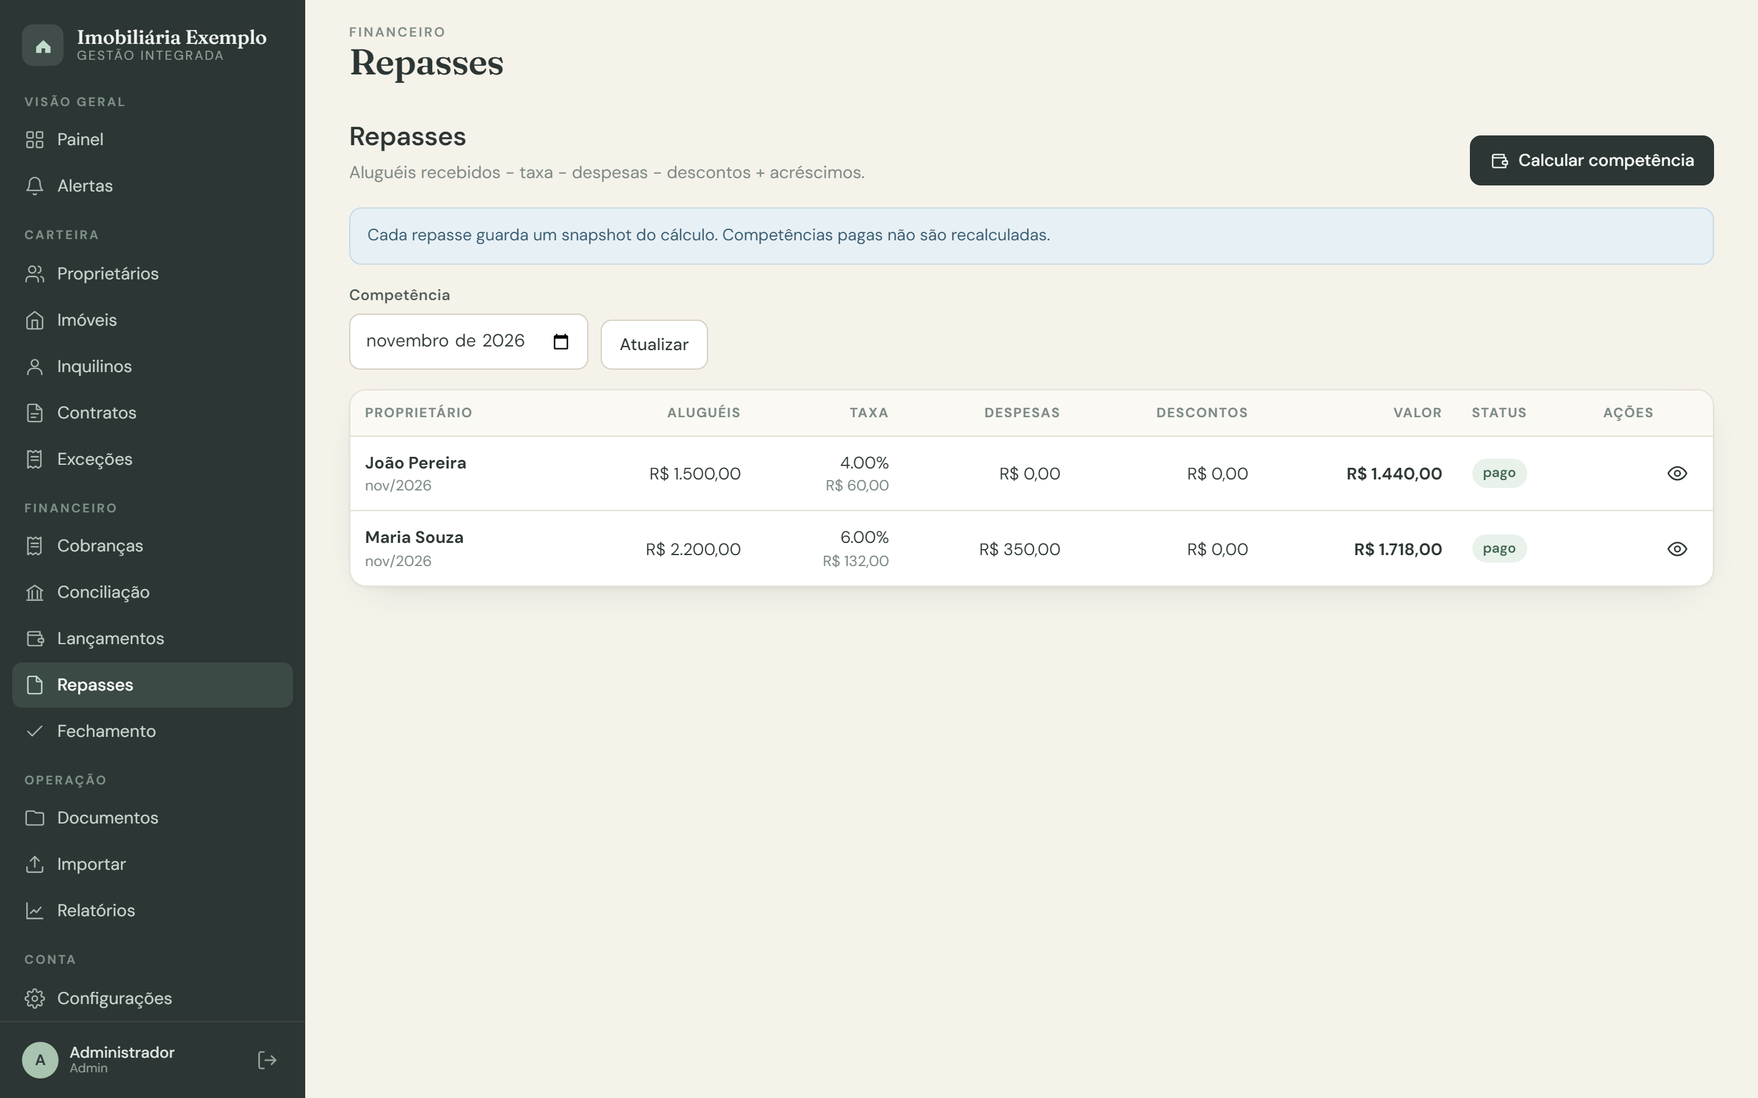
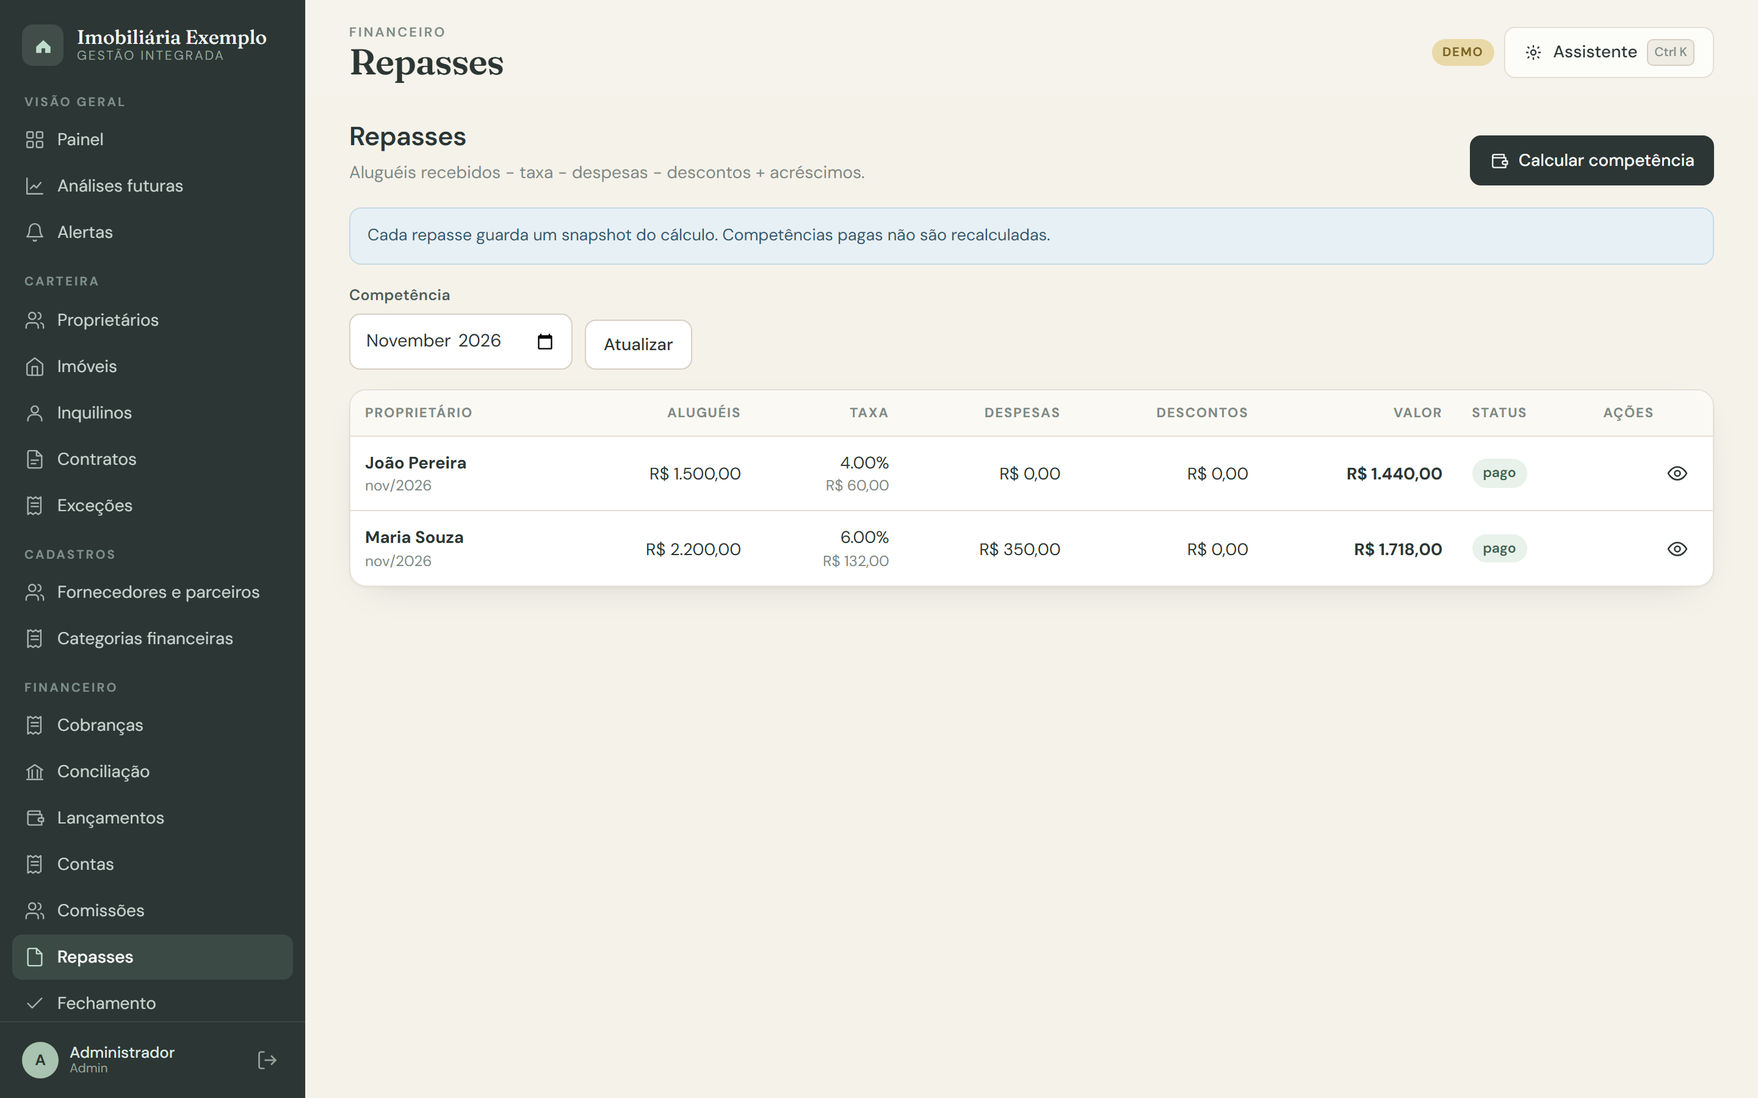
docs: readme e apresentação refeitos com capturas atualizadas do sistema (0.11.x)

diff --git a/README.md b/README.md
@@ -5,8 +5,8 @@
 <h1 align="center">Sistema de Gestão Imobiliária</h1>
 
 <p align="center">
-  <strong>Cadastros, cobranças, conciliação bancária, repasses, documentos e relatórios<br>
-  em uma operação única, auditável e feita para rodar no navegador do celular.</strong>
+  <strong>A imobiliária inteira em um só lugar: contratos, cobranças, Pix, conciliação,<br>
+  repasses, comissões, DRE, auditoria e análise de futuro — no navegador, do PC ao celular.</strong>
 </p>
 
 <p align="center">
@@ -15,14 +15,14 @@
   </a>
   <img src="https://img.shields.io/badge/Node.js-22.13%2B-2E4A40?logo=node.js&logoColor=white" alt="Node.js 22.13+">
   <img src="https://img.shields.io/badge/SQLite-node%3Asqlite-5C8571?logo=sqlite&logoColor=white" alt="SQLite">
+  <img src="https://img.shields.io/badge/testes-131%20em%2017%20su%C3%ADtes-5C8571" alt="131 testes">
   <img src="https://img.shields.io/badge/vers%C3%A3o-0.11.0-C9A87C" alt="Versão 0.11.0">
   <img src="https://img.shields.io/badge/licen%C3%A7a-MIT-2E4A40" alt="Licença MIT">
-  <img src="https://img.shields.io/badge/PRs-bem--vindos-5C8571" alt="PRs bem-vindos">
 </p>
 
 <p align="center">
   <a href="#demonstração">Demonstração</a> ·
-  <a href="#começando">Começar</a> ·
+  <a href="#por-que-este-projeto-existe">O problema</a> ·
   <a href="#uma-volta-pelo-produto">Produto</a> ·
   <a href="#arquitetura">Arquitetura</a> ·
   <a href="#documentação">Documentação</a> ·
@@ -31,56 +31,30 @@
 
 ---
 
-## Sobre o projeto
+## Por que este projeto existe
 
 Uma imobiliária familiar administra imóveis de terceiros, recebe aluguéis,
 desconta a taxa de administração e repassa o saldo aos proprietários. Quando esse
-processo vive em planilhas e mensagens, o mesmo aluguel aparece com valores ou
-datas diferentes, o repasse não se explica e ninguém sabe quem alterou o quê.
+processo vive em planilhas e mensagens:
 
-Este projeto transforma esse ciclo em um fluxo único:
+- o mesmo aluguel aparece com valores ou datas **diferentes**;
+- o repasse **não se explica** — ninguém sabe qual taxa foi aplicada nem por quê;
+- o dinheiro da imobiliária **se mistura** com o dos proprietários;
+- ninguém sabe **quem alterou o quê**, quando ou por quê.
+
+Este projeto transforma esse ciclo em um fluxo único, auditável de ponta a ponta:
 
 ```text
 cadastro → contrato → cobrança → recebimento → conciliação → repasse → fechamento
 ```
 
-O sistema foi desenhado para uma operação pequena — uma imobiliária, uma base,
-poucos usuários — e prioriza **simplicidade operacional**, **rastreabilidade** e
+Foi desenhado para uma operação pequena — uma imobiliária, uma base, poucos
+usuários — priorizando **simplicidade operacional**, **rastreabilidade** e
 **baixo custo**. O resultado é um monólito Node.js + SQLite com frontend sem
-build, testes automatizados e documentação de ponta a ponta.
+build, 131 testes automatizados e documentação de ponta a ponta.
 
 > **Status:** versão 0.11.0, em evolução ativa. O repositório não contém dados
 > reais; a base de demonstração é separada da produção.
-
-### Por que este projeto é diferente
-
-- **Explica o repasse.** Cada competência guarda um *snapshot* com a taxa, a
-  origem da regra e o cálculo por contrato.
-- **Separa o dinheiro.** Dois caixas: imobiliária e proprietários. O aluguel não
-  se confunde com a receita da taxa.
-- **Nada desaparece.** Lançamentos e baixas são corrigidos por estorno; cadastros
-  são desativados; contratos são encerrados. A auditoria registra o antes/depois.
-- **Mede o que deveria entrar.** Cobranças por contrato e competência, com aging,
-  régua e pagamento parcial.
-- **Funciona no celular.** Layout responsivo, cartões em vez de tabelas largas e
-  gráficos SVG sem biblioteca externa.
-- **Assistente que conhece os números.** Perguntas em português sobre
-  inadimplência, caixa, repasses, contratos e ocupação são respondidas pelo
-  próprio banco, sem enviar dados a serviços externos.
-- **Segurança de verdade.** Sessão server-side com expiração por inatividade, CSRF, CSP,
-  rate limit, 2FA TOTP, upload privado, validação de CPF/CNPJ, LGPD e backup com
-  ensaio real de restauração.
-- **Auditoria que prova.** Cada registro da trilha encadeia o hash do anterior;
-  editar o banco diretamente quebra a verificação.
-- **Decisão com horizonte.** Análises futuras projetam receita, resultado e caixa
-  com faixa de erro, riscos e simulador de cenário — tudo no banco local.
-- **Dados de apoio que não se repetem.** Corretores, fornecedores e clientes têm
-  cadastro próprio com Pix e CRECI; categorias financeiras são selecionáveis e
-  extensíveis. O formulário deixa de depender de texto livre e o histórico não
-  nasce com três grafias do mesmo nome.
-- **Backup que se prova.** Snapshots automáticos com hash SHA-256 ao lado do
-  arquivo, retenção configurável e ensaio de restauração que compara todas as
-  tabelas — não apenas “o arquivo foi criado”.
 
 ## Demonstração
 
@@ -110,28 +84,59 @@ padrão publicada. O roteiro de avaliação, o conteúdo da base de exemplo e as
 instruções para gerar **capturas de tela** e o **vídeo de 90 s** estão em
 [docs/DEMONSTRACAO.md](docs/DEMONSTRACAO.md).
 
-Para divulgar uma demo pública, o repositório traz `render.yaml`, `fly.toml`,
-`Dockerfile` e `docker-compose.yml` prontos, com reset automático e `noindex`.
-Passo a passo em [docs/DEPLOY-DEMO.md](docs/DEPLOY-DEMO.md).
-
 | Painel | Cobranças |
 |---|---|
-| ![Painel analítico](docs/assets/telas/02-painel.png) | ![Cobranças com aging e baixa](docs/assets/telas/04-cobrancas.png) |
-| **Repasses com snapshot da taxa** | **No celular** |
-| ![Repasses](docs/assets/telas/05-repasses.png) | ![Painel no celular](docs/assets/telas/09-painel-celular.png) |
+| ![Painel analítico com KPIs, fluxo de caixa projetado e comparativos](docs/assets/telas/02-painel.png) | ![Cobranças com aging, baixa e Pix](docs/assets/telas/04-cobrancas.png) |
+| **Análises futuras** | **Trilha de auditoria encadeada** |
+| ![Análises futuras com projeção, riscos e teste de estresse](docs/assets/telas/12-analises.png) | ![Trilha de auditoria com verificação de integridade](docs/assets/telas/13-auditoria.png) |
+| **Assistente que conhece os números** | **No celular** |
+| ![Assistente respondendo sobre inadimplência e caixa](docs/assets/telas/11-assistente.png) | ![Painel no celular](docs/assets/telas/09-painel-celular.png) |
 
 [▶ Vídeo de 90 s](docs/assets/demonstracao.webm) ·
 [todas as capturas](docs/assets/telas/) ·
 [roteiro de avaliação](docs/DEMONSTRACAO.md#roteiro-de-avaliação-10-minutos)
 
+## O que este projeto faz diferente
+
+- **Explica o repasse.** Cada competência guarda um *snapshot* com a taxa, a
+  origem da regra e o cálculo por contrato — o repasse sempre se explica.
+- **Separa o dinheiro.** Dois caixas: imobiliária e proprietários. O aluguel não
+  se confunde com a receita da taxa.
+- **Nada desaparece.** Lançamentos e baixas são corrigidos por estorno; cadastros
+  são desativados; contratos são encerrados. Nunca é editar por cima.
+- **Mede o que deveria entrar.** Cobranças por contrato e competência, com aging,
+  régua de cobrança, pagamento parcial e **Pix copia e cola com QR por cobrança**.
+- **Prova a própria integridade.** Cada registro da trilha de auditoria encadeia
+  o hash do anterior; editar o banco diretamente quebra a verificação. O
+  **diagnóstico da base** confere duplicidades, vínculos, valores e integridade
+  em um clique.
+- **Decide com horizonte.** Análises futuras projetam receita, resultado e caixa
+  com faixa de erro, riscos, simulador de cenário e **teste de estresse
+  automático com runway** — tudo no banco local.
+- **Assistente que conhece os números.** Perguntas em português (ou `Ctrl K`)
+  sobre inadimplência, caixa, repasses, contratos e ocupação são respondidas pelo
+  próprio banco, sem enviar dados a serviços externos.
+- **Segurança de verdade.** Sessão server-side com expiração por inatividade, CSRF, CSP,
+  rate limit, 2FA TOTP, upload privado, validação de CPF/CNPJ, LGPD e backup com
+  ensaio real de restauração.
+- **Dados de apoio que não se repetem.** Corretores (com CRECI e Pix),
+  fornecedores, clientes e **categorias financeiras extensíveis** — o formulário
+  deixa de depender de texto livre e o histórico não nasce com três grafias do
+  mesmo nome.
+- **Backup que se prova.** Snapshots automáticos com hash SHA-256 ao lado do
+  arquivo, retenção configurável e ensaio de restauração que compara todas as
+  tabelas — não apenas “o arquivo foi criado”.
+- **Funciona no celular.** Layout responsivo com cartões no lugar de tabelas
+  largas e gráficos SVG próprios, sem biblioteca externa.
+
 ## Uma volta pelo produto
 
 | Módulo | O que resolve |
 |---|---|
-| **Painel** | KPIs do mês, comparativos, composição de receitas, ocupação, inadimplência, alertas e atividade recente |
+| **Painel** | KPIs do mês, comparativos, composição de receitas, ocupação, inadimplência, fluxo de caixa projetado e atividade recente |
 | **Análises futuras** | Tendência, projeção com faixa de erro, riscos, recomendações, simulador de cenário e teste de estresse automático com runway |
 | **Carteira** | Proprietários, imóveis, inquilinos, contratos, garantias, reajustes e exceções de taxa |
-| **Cobranças** | Geração mensal em lote, baixa total/parcial, multa e juros, estorno, cancelamento, aging e régua, **Pix copia e cola com QR por cobrança** |
+| **Cobranças** | Geração mensal em lote, baixa total/parcial, multa e juros, estorno, cancelamento, aging e régua, Pix copia e cola com QR por cobrança |
 | **Conciliação** | Importação de OFX/CSV/Excel, sugestão de vínculo e confirmação humana |
 | **Contas** | Contas a pagar e a receber com recorrência semanal a anual, baixa que gera lançamento e previsão de caixa de 6–24 meses |
 | **Financeiro** | Dois caixas, lançamentos por competência, estornos, repasses com extrato e fechamento mensal |
@@ -141,8 +146,8 @@ Passo a passo em [docs/DEPLOY-DEMO.md](docs/DEPLOY-DEMO.md).
 | **Relatórios** | Oito relatórios em CSV, XLSX e PDF — incluindo **DRE por imóvel** — com cabeçalho, indicadores e paginação |
 | **Importação** | Modelos de planilha, prévia linha a linha e atualização de registros existentes |
 | **Comunicação** | WhatsApp por link `wa.me` ou API oficial (Cloud API), e e-mail SMTP com modelos, histórico e assinatura |
-| **Assistente** | Perguntas em linguagem natural sobre inadimplência, caixa, repasses, contratos, reajustes, ocupação, comissões e contas — com números e atalhos para a tela certa |
-| **Administração** | Usuários, papéis, auditoria encadeada, 2FA, LGPD, backup automático com hash, manutenção e configurações |
+| **Assistente** | Perguntas em linguagem natural sobre inadimplência, caixa, repasses, contratos, reajustes, ocupação, comissões e contas — com números e atalhos para a tela certa (`Ctrl K`) |
+| **Administração** | Usuários, papéis, auditoria encadeada com âncora de integridade, diagnóstico da base, 2FA, LGPD, backup automático com hash, manutenção e configurações |
 
 Detalhes de cada fluxo, regras e telas em [docs/FUNCIONALIDADES.md](docs/FUNCIONALIDADES.md).
 
@@ -208,7 +213,7 @@ demonstração. O seed **nunca** roda por omissão, mesmo em desenvolvimento.
 |---|---|
 | `npm start` | Sobe a aplicação |
 | `npm run dev` | Sobe com `--watch` |
-| `npm test` | 126 testes: API, regras, interface (jsdom), seed, relatórios, cadastros e assistente |
+| `npm test` | 131 testes em 17 suítes: API, regras, segurança, interface (jsdom), seed, relatórios, conciliação, cadastros, assistente, auditoria e diagnóstico |
 | `npm run check` | Verifica a sintaxe de todos os `.js`/`.mjs` |
 | `npm run deps:check` | Confere versão, origem e integrity da dependência `xlsx` (CDN) |
 | `npm run test:coverage` | Testes com cobertura experimental do Node |
@@ -218,6 +223,7 @@ demonstração. O seed **nunca** roda por omissão, mesmo em desenvolvimento.
 | `npm run demo:estatico` | Gera o retrato usado pela demo do GitHub Pages |
 | `npm run midia:capturar` | Gera as capturas de tela (requer Playwright) |
 | `npm run midia:video` | Grava o tour de 90 s (requer Playwright) |
+| `npm run backup:testar` | Ensaia a restauração do backup |
 | `npm run admin:reset` | Redefine a senha do admin pelo terminal |
 
 ## Arquitetura
@@ -240,13 +246,16 @@ O núcleo é um monólito com camadas claras:
 - `src/regras.js` — repasse, precedência de taxas, alertas, saldos e fechamento.
 - `src/cobrancas.js` — geração, baixa, multa/juros, régua e aging.
 - `src/conciliacao.js` — OFX/CSV, sugestões e confirmação.
-- `src/analytics.js` — KPIs, séries, composição e comparativos.
+- `src/analytics.js` — KPIs, séries, composição, comparativos e projeções.
+- `src/previsao.js` — projeção com faixa de erro, riscos e teste de estresse.
+- `src/auditoria.js` — trilha encadeada por hash, verificação e expurgo.
+- `src/diagnostico.js` — diagnóstico da base: duplicidades, vínculos e integridade.
 - `src/reports.js` — CSV, XLSX e PDF.
 - `src/importacao.js` — planilhas, prévia e modelos.
 - `src/cadastros.js` — parceiros (corretores, fornecedores e clientes) e categorias.
 - `src/backup.js` — snapshots, hash SHA-256, retenção e ensaio de restauração.
 - `src/db.js` — esquema, migrações, configurações e seed.
-- `public/*` — SPA, gráficos SVG, componentes e tema.
+- `public/*` — SPA, gráficos SVG, assistente local e tema.
 
 Leia [docs/ARQUITETURA.md](docs/ARQUITETURA.md) para os fluxos completos e
 [docs/MODELO-DE-DADOS.md](docs/MODELO-DE-DADOS.md) para o dicionário de dados.
@@ -270,7 +279,7 @@ O projeto adota, entre outras práticas:
 - **Upload:** limite de tamanho, extensões permitidas, nome aleatório, storage
   fora de `public/` e download autenticado.
 - **Auditoria:** login, CRUD, estornos, repasses, fechamento, importação, backup
-  e LGPD.
+  e LGPD — encadeada por hash com âncora de integridade.
 - **LGPD:** exportação do titular e anonimização preservando o histórico
   financeiro obrigatório.
 
@@ -313,23 +322,25 @@ npm run check
 npm test
 ```
 
-- `tests/api.test.mjs` — login, sessão, CSRF, CRUD, cobranças, repasses,
-  relatórios, backup, fechamento e proteção do último admin.
-- `tests/rules.test.mjs` — precedência de taxas, snapshot, senha, CSV, repasse e
-  importação.
-- `tests/seguranca.test.mjs` — TOTP (vetores do RFC 6238), base32, cifragem
-  AES-GCM, códigos de recuperação, política de senha e hash de sessão.
-- `tests/features.test.mjs` — Pix, WhatsApp, contas e recorrência, previsão de
-  caixa, reajuste em lote, rescisão, comissões e DRE por imóvel.
-- `tests/ui.test.mjs` — renderiza as 24 telas com dados reais em jsdom.
-- `tests/seed.test.mjs` — valida a base de demonstração da primeira execução.
-- `tests/relatorios.test.mjs` — CSV/XLSX/PDF, fórmulas, acentos, período vazio e DRE.
-- `tests/conciliacao.test.mjs` — OFX, CSV, sugestão, duplicidade, txid e confirmação.
-- `tests/analytics.test.mjs` — série, ocupação, composição, KPIs e cache de settings.
-- `tests/cadastros.test.mjs` — parceiros, categorias, vínculo de corretor,
-  fornecedor em contas, novas recorrências e hash de snapshot.
-- `tests/assistente.test.mjs` — interpretação de período, resumo, caixa,
-  ocupação, ajuda, busca por nome e inadimplência.
+| Suíte | Cobre |
+|---|---|
+| `tests/api.test.mjs` | Login, sessão, CSRF, CRUD, cobranças, repasses, relatórios, backup, fechamento e proteção do último admin |
+| `tests/rules.test.mjs` | Precedência de taxas, snapshot, senha, CSV, repasse e importação |
+| `tests/seguranca.test.mjs` | TOTP (vetores do RFC 6238), base32, cifragem AES-GCM, códigos de recuperação e política de senha |
+| `tests/seguranca-avancada.test.mjs` | RBAC, CSRF e injeção em filtros contra a API real |
+| `tests/features.test.mjs` | Pix, WhatsApp, contas e recorrência, previsão de caixa, reajuste em lote, rescisão, comissões e DRE por imóvel |
+| `tests/ui.test.mjs` | Renderiza as telas com dados reais em jsdom |
+| `tests/seed.test.mjs` | Valida a base de demonstração da primeira execução |
+| `tests/relatorios.test.mjs` | CSV/XLSX/PDF, fórmulas, acentos, período vazio e DRE |
+| `tests/conciliacao.test.mjs` | OFX, CSV, sugestão, duplicidade, txid e confirmação |
+| `tests/analytics.test.mjs` | Série, ocupação, composição, KPIs e cache de settings |
+| `tests/previsao.test.mjs` | Projeção, faixa de erro, riscos e teste de estresse |
+| `tests/auditoria.test.mjs` | Encadeamento de hash, verificação e expurgo |
+| `tests/backup.test.mjs` | Snapshot, hash, retenção e ensaio de restauração |
+| `tests/cadastros.test.mjs` | Parceiros, categorias, vínculo de corretor e hash de snapshot |
+| `tests/assistente.test.mjs` | Interpretação de período, resumo, caixa, ocupação e inadimplência |
+| `tests/validacao.test.mjs` | Validação de CPF/CNPJ e campos de formulário |
+| `tests/diagnostico.test.mjs` | Diagnóstico da base: duplicidades, vínculos e integridade |
 
 O CI roda em Node 22 e 24. A estratégia e as lacunas estão em
 [docs/QUALIDADE.md](docs/QUALIDADE.md).
@@ -342,6 +353,8 @@ O CI roda em Node 22 e 24. A estratégia e as lacunas estão em
   tiver mais de 24 h (configurável). Cada arquivo recebe um `.sha256` ao lado.
 - **Verificação:** Relatórios → “Verificar integridade” abre o banco gerado e
   confere tabelas, chaves estrangeiras, contagens e o hash dos snapshots.
+- **Ensaio:** `npm run backup:testar` restaura o snapshot em um diretório
+  temporário e compara todas as tabelas.
 - **Restauração:** pare o servidor, substitua `data/imobiliaria.db`, copie
   `documentos/` para `data/uploads` e `.app-key` para `data/.app-key`, remova
   `-wal`/`-shm` antigos e suba novamente.
@@ -412,20 +425,20 @@ Sem `SEED_DEMO=1` a base começa sempre vazia, inclusive fora de produção.
 
 ```text
 src/            HTTP, API, regras, banco, relatórios e integrações
-public/         SPA em JavaScript puro, estilos e gráficos SVG
-tests/          testes automatizados (node:test + jsdom)
+public/         SPA em JavaScript puro, estilos, gráficos e assistente
+tests/          17 suítes de teste (node:test + jsdom)
 docs/           produto, arquitetura, dados, API, qualidade, operação e ADRs
 deploy/         systemd, Caddy, backup e guia de publicação
-scripts/        verificação de sintaxe
+scripts/        captura de mídia e verificação de ambiente
 .github/        CI, templates de issue e pull request
 data/           banco e uploads (gerado; não versionar)
 ```
 
 ## Roadmap
 
-**Fase 1 — consolidação (concluída na 0.7.0):** reajuste em lote, rescisão, contas
-a pagar/receber com previsão de caixa, comissões e DRE por imóvel. Restam modelos
-de documento e notificações automáticas.
+**Fase 1 — consolidação (concluída na 0.11.0):** reajuste em lote, rescisão,
+contas a pagar/receber com previsão de caixa, comissões, DRE por imóvel, Pix,
+auditoria encadeada, cadastros de apoio e análises futuras com teste de estresse.
 
 **Fase 2 — transparência:** portal do proprietário, portal do inquilino, central
 de manutenção, histórico do imóvel e dashboard por bairro/tipo.

diff --git a/docs/DEMONSTRACAO.md b/docs/DEMONSTRACAO.md
@@ -94,10 +94,14 @@ da própria demonstração, para não envelhecerem:
 | ![Repasses](assets/telas/05-repasses.png) | ![Conciliação](assets/telas/06-conciliacao.png) |
 | **Relatórios** | **Alertas** |
 | ![Relatórios](assets/telas/07-relatorios.png) | ![Alertas](assets/telas/08-alertas.png) |
+| **Análises futuras** | **Auditoria** |
+| ![Análises futuras com projeção e teste de estresse](assets/telas/12-analises.png) | ![Trilha de auditoria encadeada](assets/telas/13-auditoria.png) |
+| **Fornecedores e parceiros** | **Categorias financeiras** |
+| ![Cadastros de corretores, fornecedores e clientes](assets/telas/14-parceiros.png) | ![Categorias financeiras extensíveis](assets/telas/15-categorias.png) |
 | **Painel no celular** | **Cobranças no celular** |
 | ![Painel no celular](assets/telas/09-painel-celular.png) | ![Cobranças no celular](assets/telas/10-cobrancas-celular.png) |
-| **Assistente de gestão** | |
-| ![Assistente respondendo sobre inadimplência](assets/telas/11-assistente.png) | |
+| **Assistente de gestão** | **Diagnóstico da base** |
+| ![Assistente respondendo sobre inadimplência](assets/telas/11-assistente.png) | ![Diagnóstico da base](assets/telas/16-diagnostico.png) |
 
 A demo do GitHub Pages é somente leitura. Para testar cadastros, baixas e
 conciliação de ponta a ponta, rode a instância local com `npm run demo:servir`
@@ -114,7 +118,10 @@ node scripts/capturar-telas.mjs     # grava as 10 telas
 
 O script usa `APP_URL` (padrão `http://127.0.0.1:3009`) e `DEMO_SENHA`. Ele
 captura login, painel, contratos, cobranças, repasses, conciliação, relatórios,
-alertas e duas telas no celular.
+alertas e duas telas no celular. As telas de análises, auditoria, parceiros,
+categorias, assistente aberto e diagnóstico são capturadas do mesmo modo,
+acrescendo `analises`, `auditoria`, `parceiros`, `categorias`, `manutencao`
+e o clique do assistente ao array `telas` do script.
 
 > As imagens são produzidas localmente. Nenhuma captura é enviada para fora da
 > máquina.
